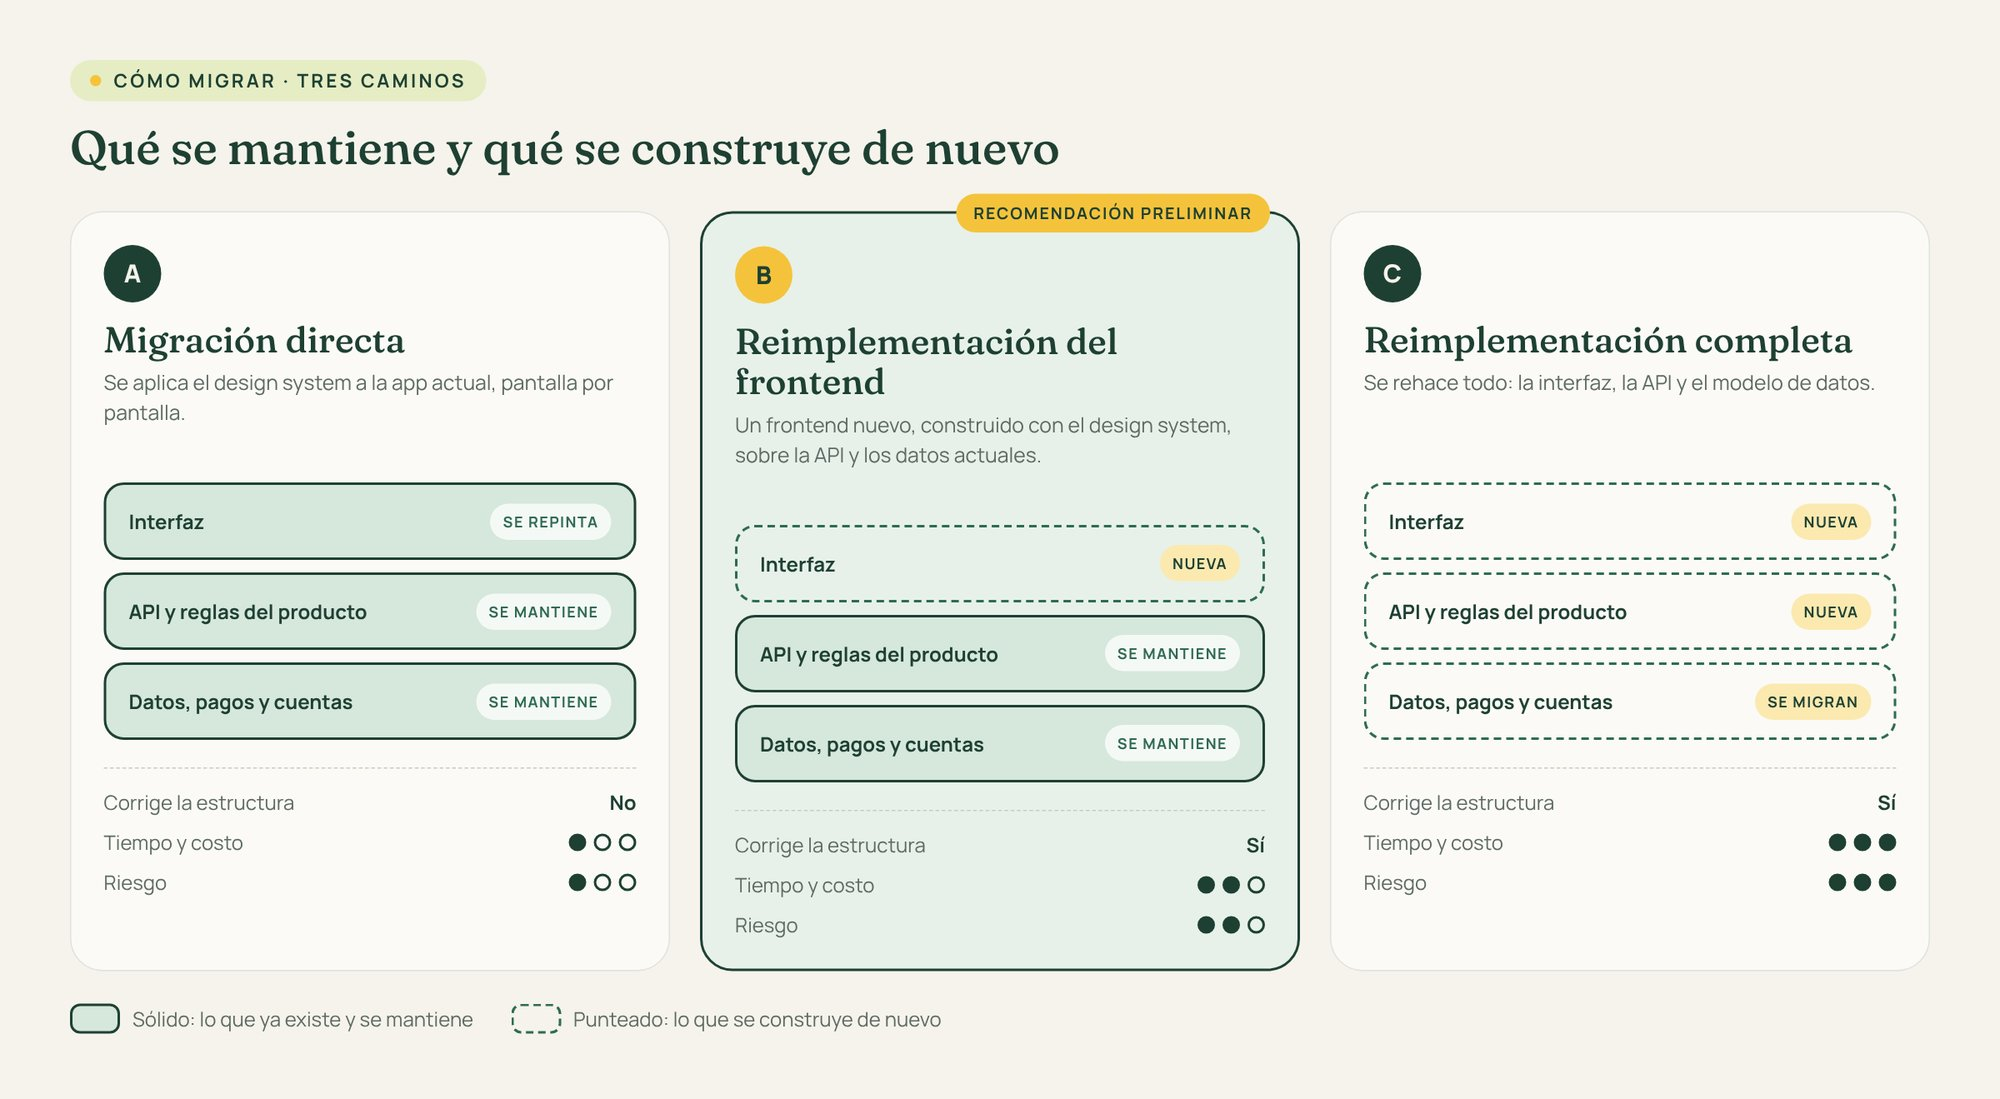
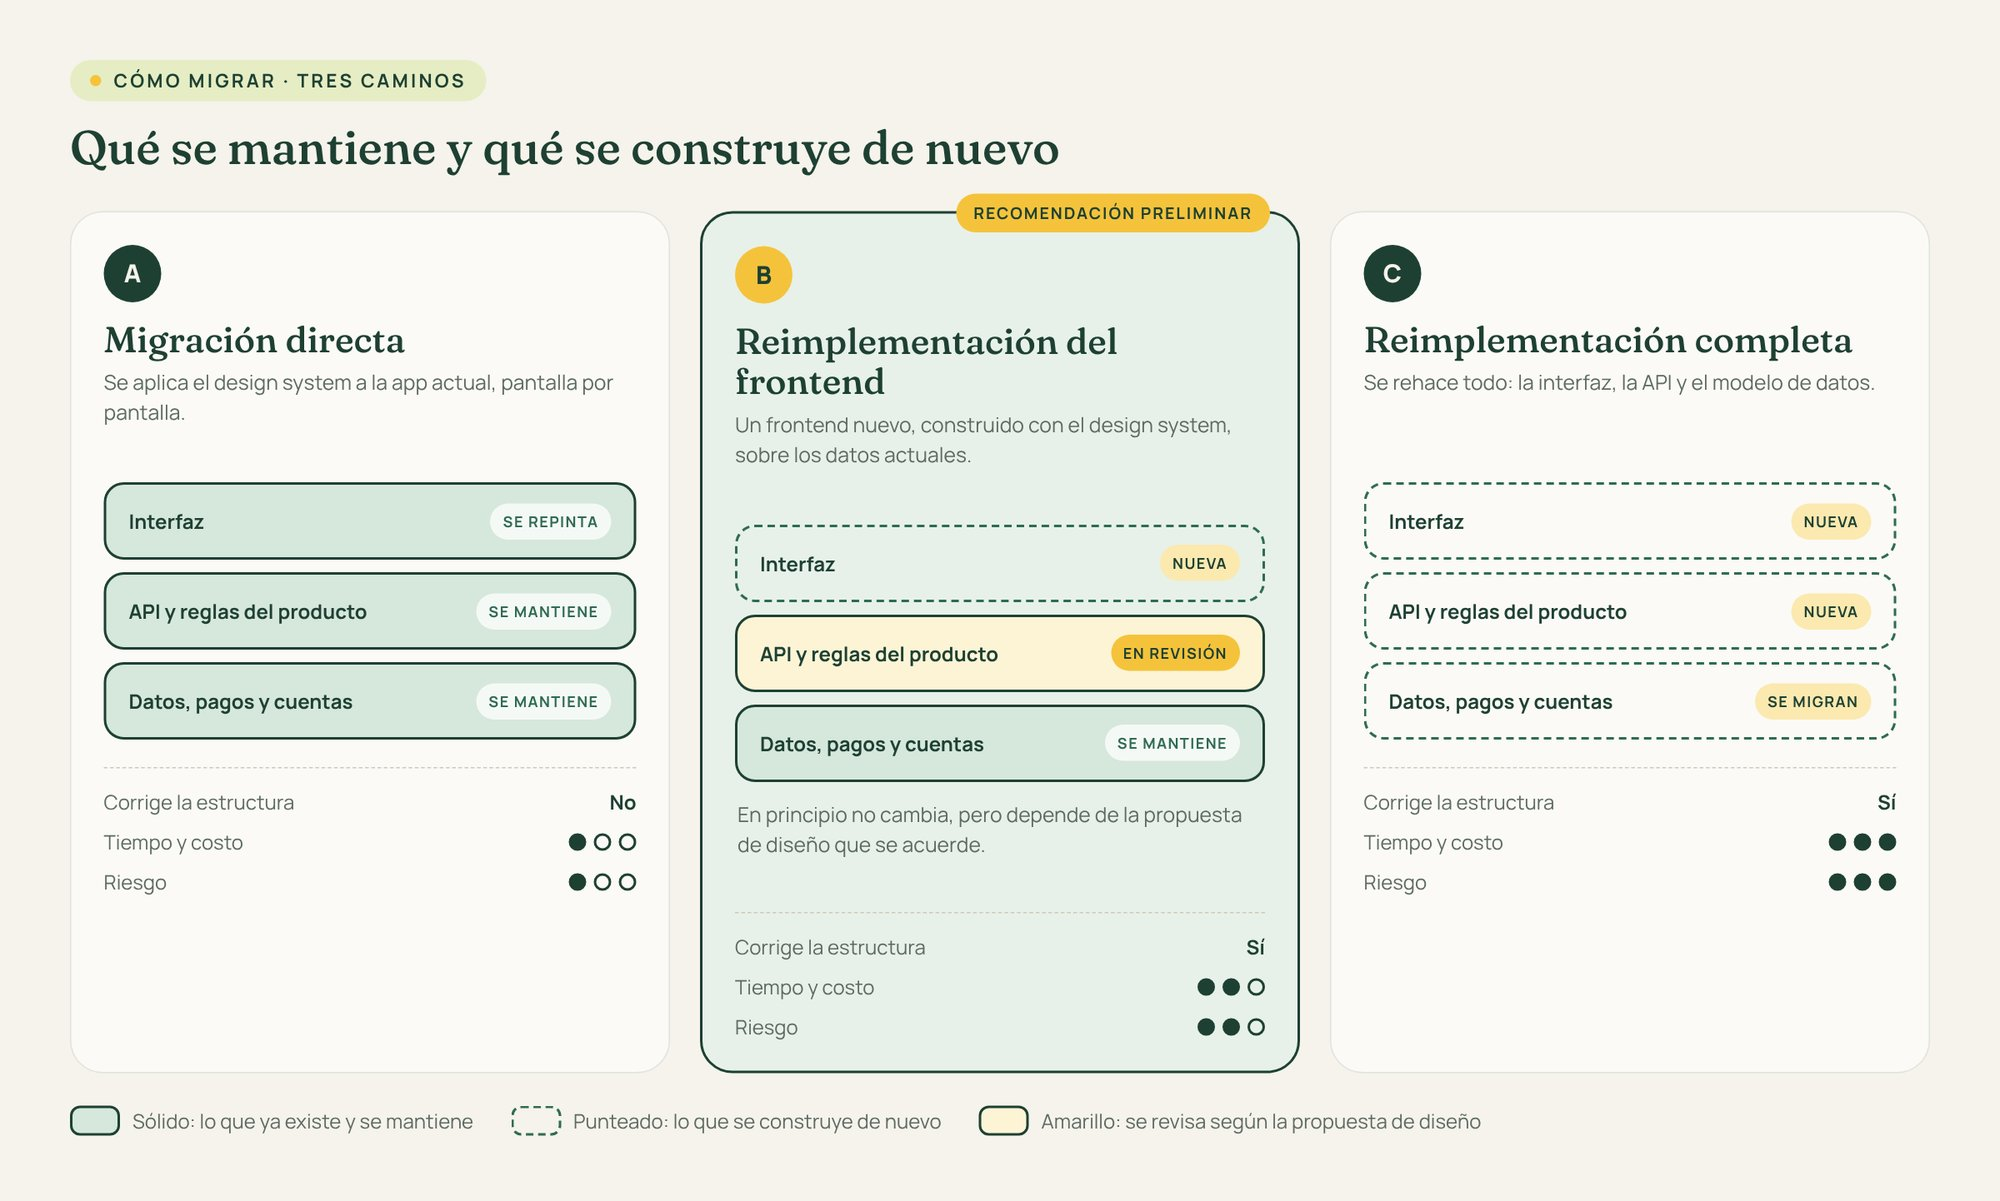
App del usuario: ajustes en la introducción, los lineamientos y la migración
- La introducción suma la landing y el design system como base.
- Dos lineamientos nuevos: identidad coherente e interfaz que acompaña.
- Camino B: la API y las reglas del producto quedan en revisión según la
  propuesta de diseño (también en el diagrama).
- Nuevo orden de migración: Inicio y navegación, reserva y pago, registro,
  cuenta y, al final, diario y bienestar.
- Sin la sección "Lo que falta saber para decidir".

Claude-Session: https://claude.ai/code/session_01WU1DRv73FL9hgnWuzdh2zM

diff --git a/06-app-usuario/README.md b/06-app-usuario/README.md
@@ -42,7 +42,7 @@ tarjetas:
 
 # 06 · App del usuario
 
-Diseño del nuevo portal para pacientes (usuarios). El punto de partida es **migrar la app actual del portal del paciente** ([app.motivarcare.com](https://app.motivarcare.com/)) al nuevo portal. El trabajo parte de la investigación del frente `01-investigacion`: a partir de ella se analizan alternativas, organizadas en familias de propuestas, cada una con sus mockups, prototipos y diseños finales.
+Diseño del nuevo portal para pacientes (usuarios). El punto de partida es **migrar la app actual del portal del paciente** ([app.motivarcare.com](https://app.motivarcare.com/)) al nuevo portal. El trabajo parte de la investigación del frente `01-investigacion` y aplica las definiciones y los hallazgos que surgieron al diseñar la nueva landing page (`08-landing-page`), documentados en el nuevo design system de MotivarCare (`04-design-system`). Con esa base se analizan alternativas, organizadas en familias de propuestas, cada una con sus mockups, prototipos y diseños finales.
 
 ![El Inicio actual del portal del paciente, con un carrusel violeta, accesos en tarjetas de varios colores y una barra lateral de íconos](/img/app-usuario/portal-actual-inicio.jpg)
 
@@ -50,6 +50,8 @@ Diseño del nuevo portal para pacientes (usuarios). El punto de partida es **mig
 
 ## Lineamientos que se mantienen en toda la migración
 
+- **Una sola identidad, coherente en todo el producto.** El nuevo design system le da a la app la misma voz visual que la landing: colores, tipografías, formas y componentes pensados para la calma, la cercanía y la confianza, que son los valores del producto. Cada pantalla se arma con las mismas piezas, así que la experiencia se siente igual de un extremo al otro.
+- **La interfaz acompaña, no protagoniza.** Lo importante es la terapia y la relación con el profesional. Cada pantalla muestra solo lo necesario para el paso que la persona tiene por delante (reservar, prepararse, entrar a la sesión), sin elementos que compitan por su atención ni información repetida.
 - **Criterios de la landing** (`08-landing-page/README.md`, sección "Criterios"), aplicados a la app:
   1. **Credibilidad antes que promesa:** datos verificables del servicio (matrícula verificada, duración de las sesiones, precios claros, sin suscripción) en lugar de afirmaciones que no se pueden respaldar.
   2. **Hablarle a quien busca ayuda, no a "un usuario":** textos que invitan y no asustan, sin lenguaje interno o técnico.
@@ -101,13 +103,13 @@ Cada plataforma organiza la experiencia alrededor de un eje distinto, y esos cua
 
 ## Cómo migrar
 
-![Diagrama de los tres caminos: A, migración directa, que repinta la interfaz y mantiene la API y los datos; B, reimplementación del frontend, con una interfaz nueva sobre la API y los datos actuales (recomendación preliminar); y C, reimplementación completa, que rehace todo](/img/app-usuario/caminos-migracion.jpg)
+![Diagrama de los tres caminos: A, migración directa, que repinta la interfaz y mantiene la API y los datos; B, reimplementación del frontend, con una interfaz nueva sobre los datos actuales y la API en revisión según la propuesta de diseño (recomendación preliminar); y C, reimplementación completa, que rehace todo](/img/app-usuario/caminos-migracion.jpg)
 
 ### Tres caminos posibles
 
 | | **A · Migración directa** | **B · Reimplementación del frontend** | **C · Reimplementación completa** |
 |---|---|---|---|
-| **Qué es** | Se mantiene la app actual (React, servida desde Railway) y se le aplica el design system pantalla por pantalla: colores, tipografías, componentes y textos. | Se construye un frontend nuevo sobre la API y los datos actuales. Las pantallas y los flujos se rediseñan, y el backend se mantiene. | Se rehace todo: el frontend, la API y el modelo de datos. |
+| **Qué es** | Se mantiene la app actual (React, servida desde Railway) y se le aplica el design system pantalla por pantalla: colores, tipografías, componentes y textos. | Se construye un frontend nuevo sobre la API y los datos actuales. Las pantallas y los flujos se rediseñan. En principio, la API y las reglas del producto no se modifican, pero eso depende de la propuesta de diseño que se acuerde: puede requerir ajustes. | Se rehace todo: el frontend, la API y el modelo de datos. |
 | **Ventajas** | Es lo más rápido para cambiar el aspecto. Tiene menos riesgo técnico y no toca los datos ni los pagos. | Permite corregir la estructura (navegación, flujos y estados) y usar el design system desde el origen. Los datos, los pagos y las cuentas siguen donde están. Se puede hacer por partes. | Es libertad total. Permite corregir reglas de negocio que hoy están en el backend (por ejemplo, cómo se asignan los profesionales o cómo se cobran los paquetes). |
 | **Desventajas** | Hereda los problemas de estructura que marcó la auditoría. El resultado tiene la cara nueva y la lógica vieja. Es probable que cada pantalla necesite más trabajo del previsto, porque el código no se pensó con componentes compartidos. | Requiere conocer bien la API actual y lo que ya hace. Si la API tiene huecos, hay que completarlos. Durante un tiempo conviven dos frontends. | Es el camino más largo, caro y riesgoso: implica migrar datos de pacientes, historiales y pagos. Durante el desarrollo, la app actual sigue con sus problemas. |
 | **Cuándo conviene** | Si el objetivo inmediato es solo unificar la marca. | Si la API actual es razonable y el problema está en la experiencia. | Si el backend tiene problemas graves que impiden las reglas del producto. |
@@ -116,23 +118,15 @@ Cada plataforma organiza la experiencia alrededor de un eje distinto, y esos cua
 
 **Camino B, por partes.** Por lo que vimos en la auditoría, los problemas principales están en la experiencia (navegación, flujos, textos y estados) y en algunas reglas que se ven en la interfaz, más que en la infraestructura. Un frontend nuevo permite construir con el design system desde el principio, sin pagar el costo de rehacer datos y pagos.
 
-La migración se haría por flujos, en el orden en que la auditoría marcó mayor riesgo para la persona:
+La migración se haría por flujos. Empieza por la estructura y por lo esencial para tomar una sesión, y deja para el final las funciones secundarias:
 
-1. **Reserva y pago**, porque toca la confianza y el dinero (caso 04).
-2. **Inicio y navegación**, porque son la estructura de todo lo demás (caso 03).
-3. **Diario y bienestar**, por la privacidad (caso 05).
+1. **Inicio y navegación**, porque son la estructura de todo lo demás (caso 03).
+2. **Reserva y pago**, porque tocan la confianza y el dinero (caso 04).
+3. **Registro e ingreso** (caso 02).
 4. **Cuenta y datos personales** (caso 06).
-5. **Registro e ingreso** (caso 02).
+5. **Diario y bienestar**, que son funciones secundarias (caso 05).
 
 Esta recomendación es provisoria: depende de lo que muestre el relevamiento de la API. Si el relevamiento encuentra que reglas como "nada se paga sin un profesional definido" no se pueden cumplir con el backend actual, hay que revisar el camino.
-
-### Lo que falta saber para decidir
-
-- Qué pantallas y funciones tiene hoy la app, y cuáles se usan.
-- Qué hace la API actual, cómo está documentada y quién la mantiene.
-- Con qué servicios se integra para el pago, la videollamada, los correos y las notificaciones.
-- Cómo se manejan hoy los paquetes, las asignaciones de profesional y los cambios.
-- Si hay plazos o restricciones del negocio, como una fecha de lanzamiento o campañas.
 
 ## Propuesta: cuatro familias
 
